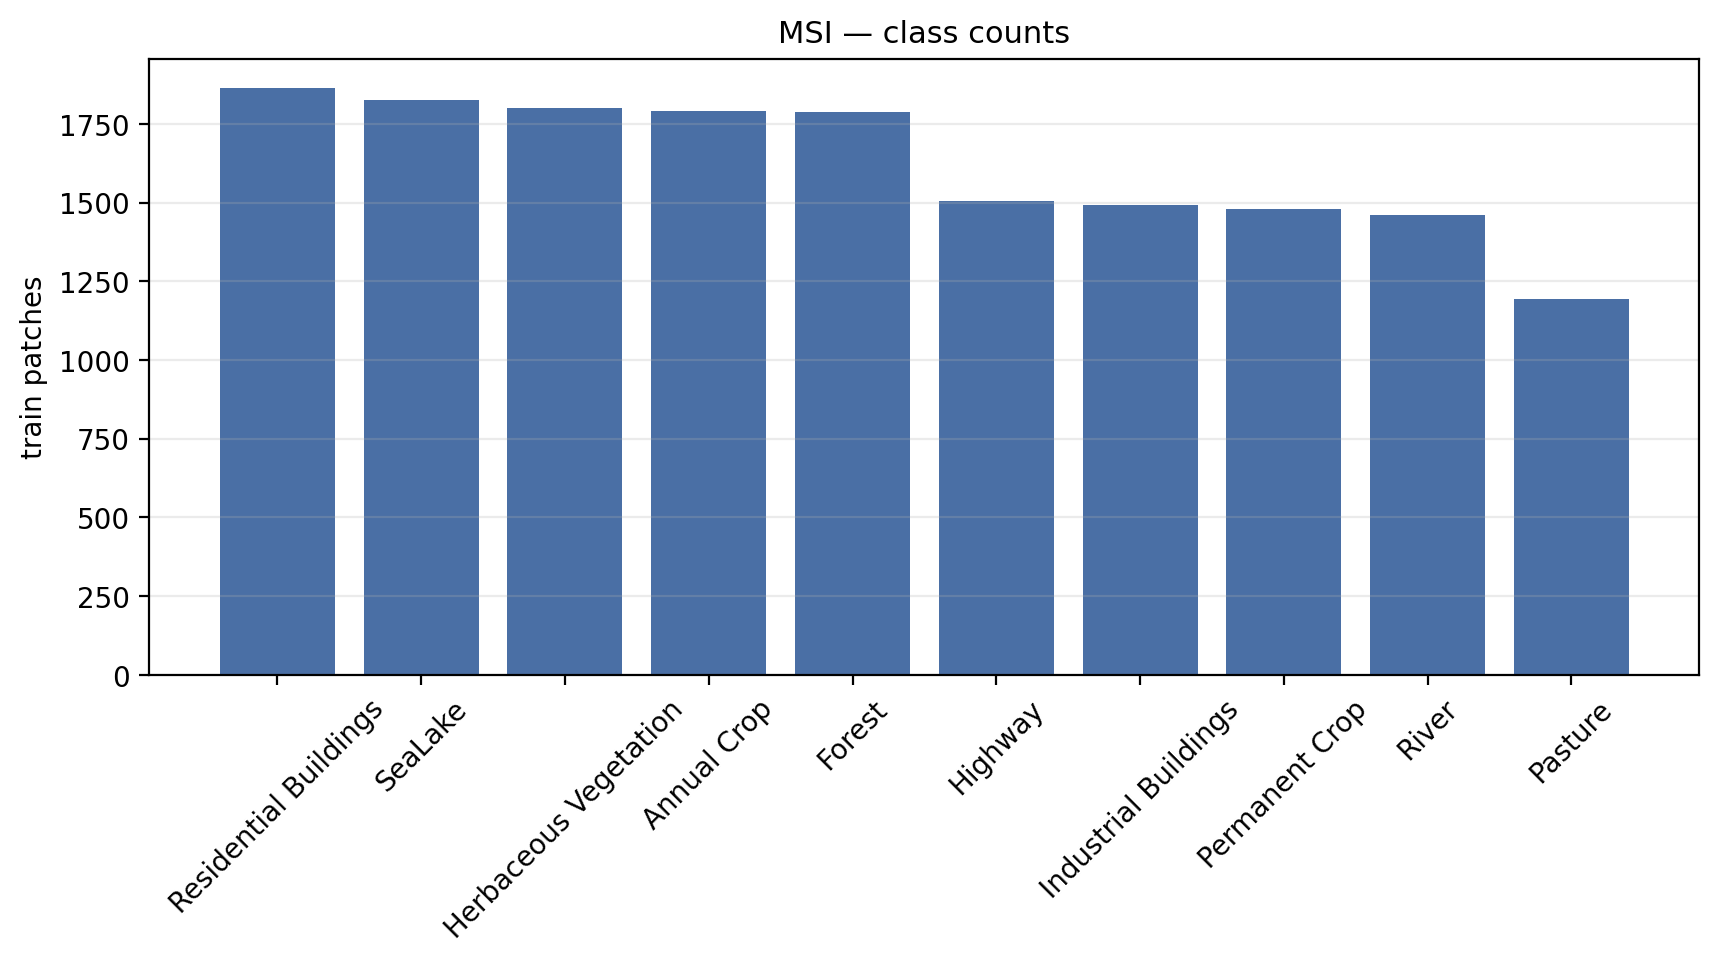
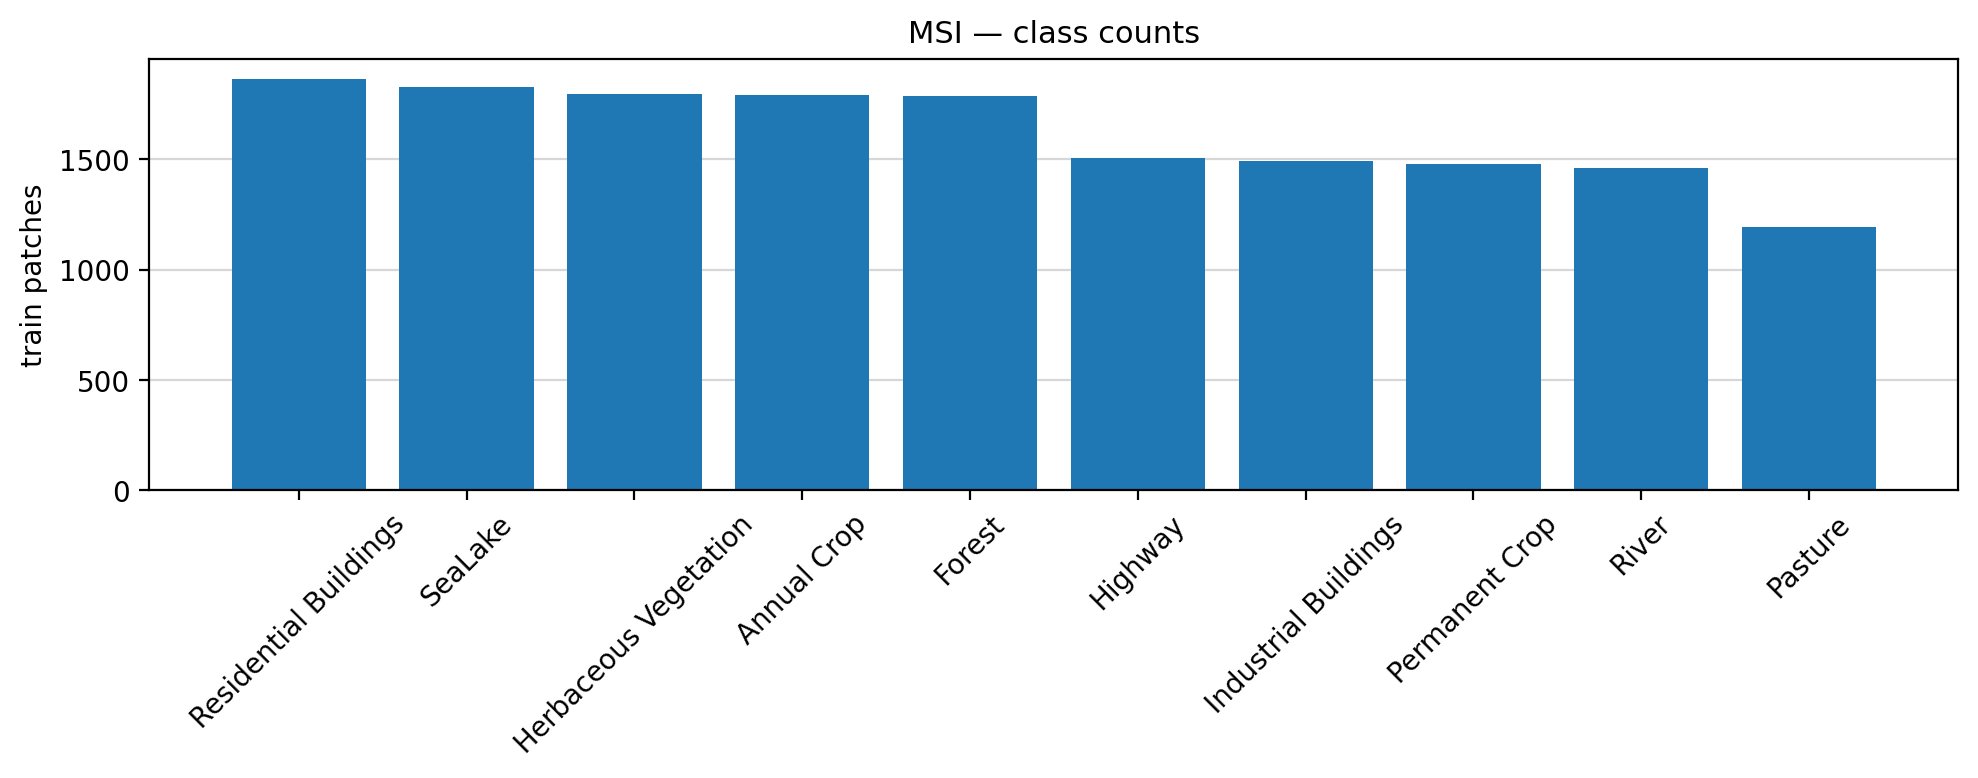
Added LR Scheduler to stabilize vall_acc

diff --git a/main.py b/main.py
@@ -37,6 +37,9 @@ def main():
     # Recommended to use --lr 1e-3 when running from CLI (Default Adam number)
     optimizer = torch.optim.Adam(model.parameters(), lr=cfg.lr)
 
+    # LR Scheduler to decay LR over time (due to training run val_acc spikes)
+    scheduler = torch.optim.lr_scheduler.CosineAnnealingLR(optimizer, T_max=cfg.epochs)
+
     best_val_acc = 0.0
     print(f"Training on {device}")
 
@@ -51,6 +54,9 @@ def main():
             f"Val Loss: {val_loss} | "
             f"Val Acc: {val_acc}"
         )
+
+        scheduler.step()
+        print(f" Current LR value {optimizer.param_groups[0]['lr']}")
 
         if val_acc > best_val_acc:
             best_val_acc = val_acc

diff --git a/train.py b/train.py
@@ -127,7 +127,7 @@ def train_one_epoch(
     model.train()
     total_loss = 0.0
     n = 0
-
+    
     for images, labels in tqdm(loader, desc="train", leave=False):
         images = images.to(device)
         labels = labels.to(device, dtype=torch.long)
